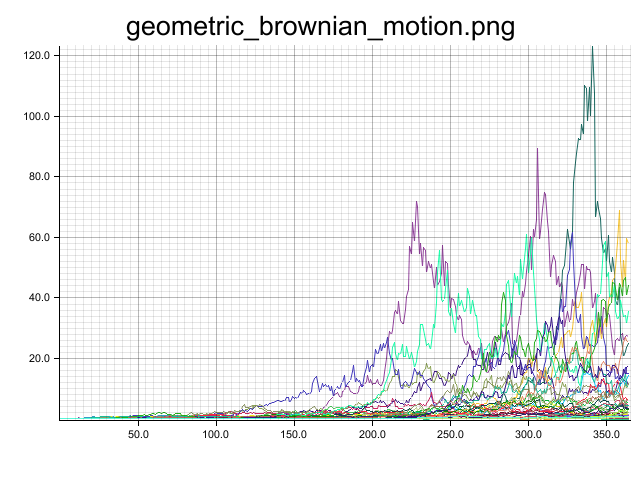
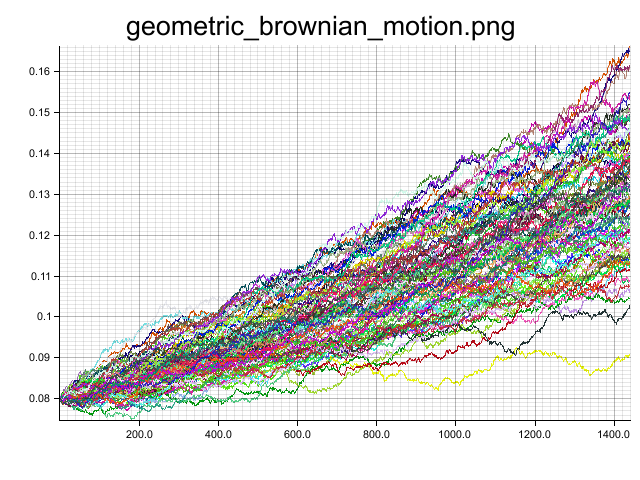
plotting changes

diff --git a/src/geometric_brownian_motion.rs b/src/geometric_brownian_motion.rs
@@ -1,4 +1,3 @@
-
 use std::vec;
 use std::time::Instant;
 /// Generate geometric brownian motion
@@ -35,7 +34,7 @@ pub fn geometric_brownian_motion_plot() -> Result<(), Box<dyn std::error::Error>
     let now = Instant::now();
     let n = 100;
     for _ in 0..n{
-        let vals = generate_geometric_brownian_motion(0.08, 0.01/365.0, 365, 500.0, 25.0);
+        let vals = generate_geometric_brownian_motion(0.08, 1.0/1440.0, 1440, 0.5, 0.1);
         val.push(vals);
     }
     let elapsed_time = now.elapsed();

diff --git a/src/plot.rs b/src/plot.rs
@@ -1,4 +1,3 @@
-
 use plotters::prelude::*;
 use rand::Rng;
 
